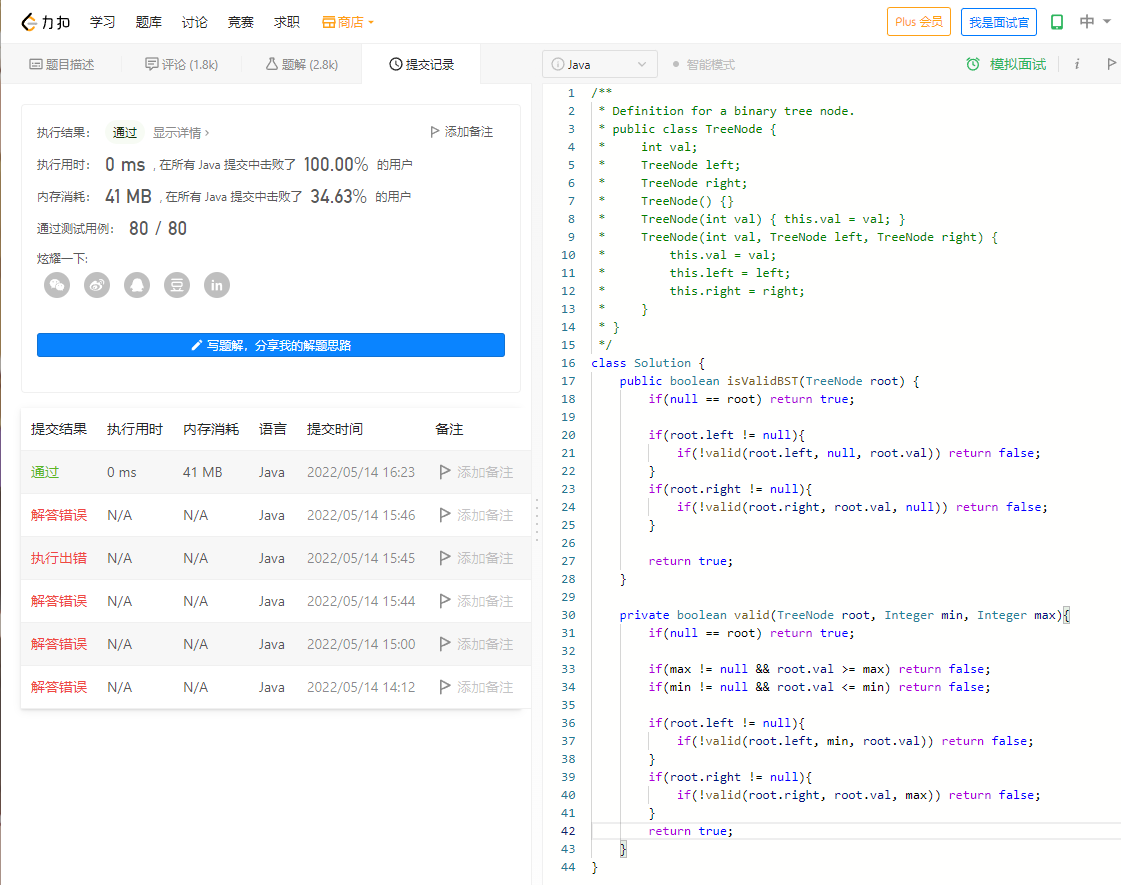
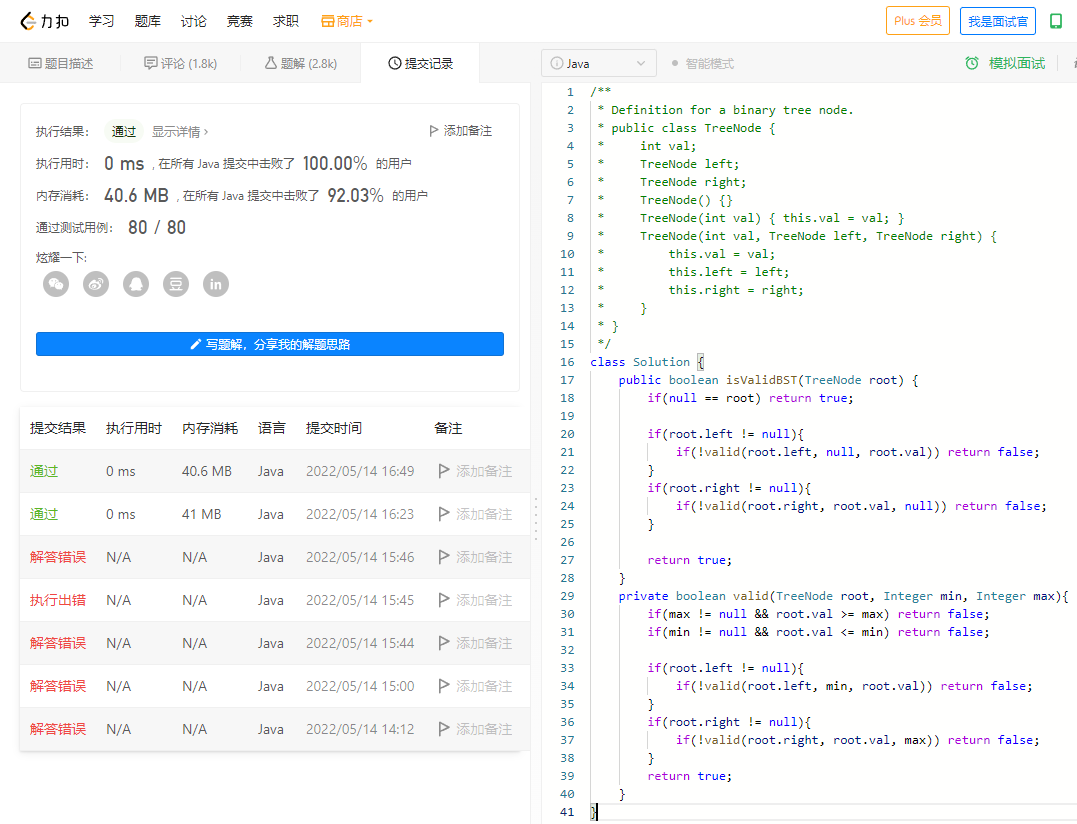
更新校验搜索二叉树算法

diff --git a/src/main/java/bllose/binaryTree/BinaryTrees.java b/src/main/java/bllose/binaryTree/BinaryTrees.java
@@ -28,8 +28,6 @@ public class BinaryTrees{
     }
 
     private boolean valid(TreeNode root, Integer min, Integer max){
-        if(null == root) return true;
-
         if(max != null && root.val >= max) return false;
         if(min != null && root.val <= min) return false;
 
